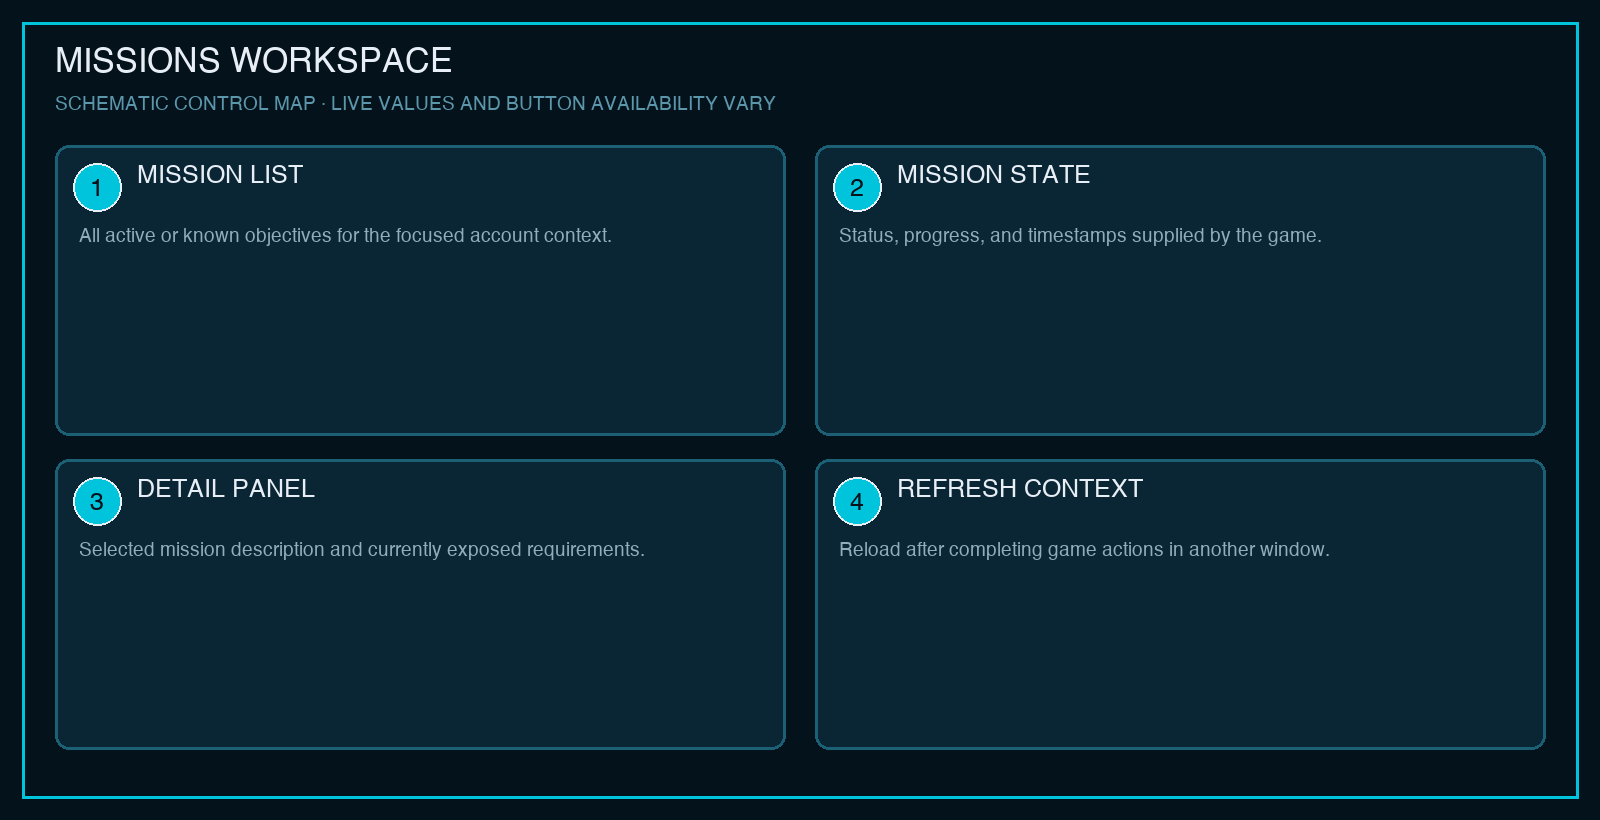
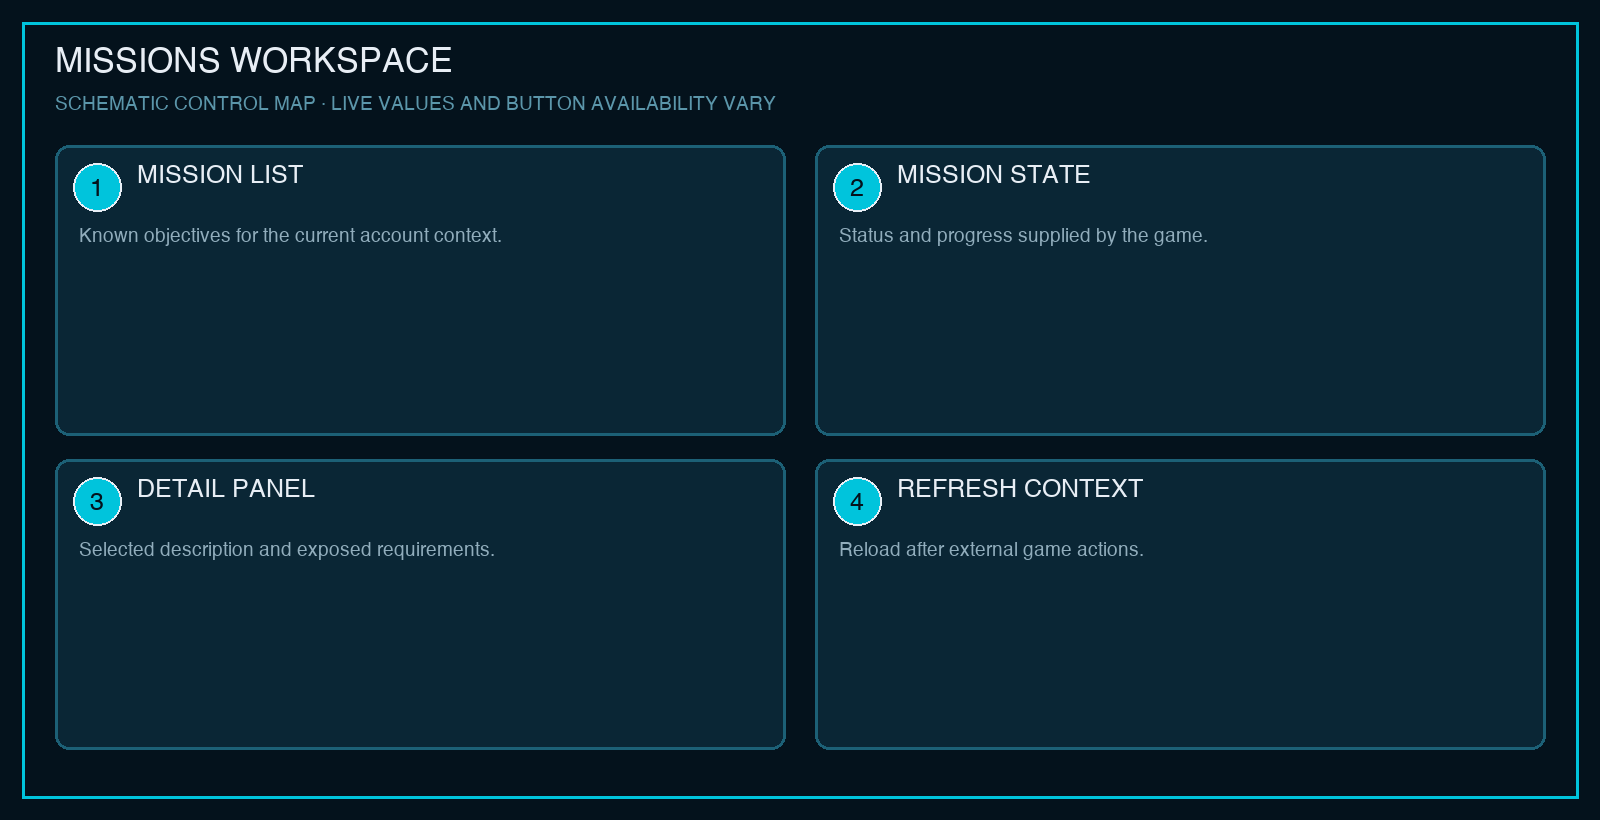
Reorganize operator manual by application tabs

diff --git a/docs/user-guide/build_manual.py b/docs/user-guide/build_manual.py
@@ -46,7 +46,8 @@ SCREENSHOTS = {
     "settings-status": Path("/Users/ziegenbagel/Documents/Screenshot 2026-08-22 at 9.14.28 PM.png"),
     "settings-roles": Path("/Users/ziegenbagel/Documents/Screenshot 2026-08-22 at 9.14.45 PM.png"),
     "settings-reserve": Path("/Users/ziegenbagel/Documents/Screenshot 2026-08-22 at 9.15.42 PM.png"),
-    "settings-transport": Path("/Users/ziegenbagel/Documents/Screenshot 2026-08-22 at 9.15.13 PM.png"),
+    "settings-tanker": Path("/Users/ziegenbagel/Documents/Screenshot 2026-08-22 at 9.15.13 PM.png"),
+    "settings-transport": Path("/Users/ziegenbagel/Documents/Screenshot 2026-08-22 at 9.20.14 PM.png"),
 }
 
 NAVY = RGBColor(5, 23, 34)
@@ -478,6 +479,24 @@ def add_warranty_redemption_form(doc):
     add_note(doc, "Actual terms", "Skunkworks is an independent community tool. The game server remains authoritative, and no joke on this page overrides safety warnings, the software license, or game rules.\nOperator signature: __________________________    Date / local orbit: __________________", "warning")
 
 
+def add_contents_page(doc, entries):
+    add_heading(doc, "Contents")
+    add_body(doc, "The manual follows the application from left to right. Page ranges include every subsection and screenshot belonging to that top-level tab.")
+    table = doc.add_table(rows=1, cols=3)
+    table.style = "Table Grid"
+    set_table_geometry(table, [1200, 6360, 1800])
+    for index, label in enumerate(("Section", "Application area", "Pages")):
+        shade(table.rows[0].cells[index], "061722")
+        font(table.rows[0].cells[index].paragraphs[0].add_run(label), bold=True, color=LIGHT)
+    for number, title, pages in entries:
+        cells = table.add_row().cells
+        font(cells[0].paragraphs[0].add_run(number), bold=True, color=BLUE)
+        font(cells[1].paragraphs[0].add_run(title), bold=True if number != "" else False)
+        cells[2].paragraphs[0].alignment = WD_ALIGN_PARAGRAPH.CENTER
+        font(cells[2].paragraphs[0].add_run(pages), bold=True, color=CYAN)
+        set_table_geometry(table, [1200, 6360, 1800])
+
+
 def build():
     has_figure = make_dashboard_figure()
     has_settings_figure = make_settings_figure()
@@ -529,7 +548,25 @@ def build():
     add_note(doc, "Edition", "Version 0.3 is the illustrated living manual for the current development build. Screens and capabilities will be revised with the application.")
     doc.add_page_break()
 
-    add_heading(doc, "1. Read This First")
+    add_contents_page(doc, [
+        ("1", "Getting Started", "3"),
+        ("2", "Mission Control", "4–5"),
+        ("3", "Fleet", "6"),
+        ("4", "Galaxy Map", "7–8"),
+        ("5", "Navigation", "9–11"),
+        ("6", "Resources", "12–13"),
+        ("7", "Missions", "14"),
+        ("8", "Production", "15"),
+        ("9", "Safety", "16"),
+        ("10", "Communications", "17"),
+        ("11", "Manual Control", "18–22"),
+        ("12", "Settings", "23–28"),
+        ("13", "Troubleshooting and Glossary", "29"),
+        ("", "Manny Warranty Redemption Form", "30"),
+    ])
+    doc.add_page_break()
+
+    add_heading(doc, "1. Getting Started")
     add_body(doc, "Skunkworks is a command-and-awareness layer for Von Neumann Game. It combines live account data, locally retained discoveries, planning, safety review, and optional automation. The focused probe determines the operational context shown across most screens.")
     add_note(doc, "Command authority", "Observe Only never sends game orders. Approval requires confirmation. Automatic can send allowlisted orders when live execution is enabled. The emergency stop overrides every mode.", "warning")
     add_heading(doc, "First launch", 2)
@@ -768,5 +805,189 @@ def build():
     print(OUTPUT)
 
 
+def build_tabbed():
+    """Build the manual in the same hierarchy as the application's tabs."""
+    doc = Document()
+    section = doc.sections[0]
+    section.top_margin = section.bottom_margin = Inches(1.0)
+    section.left_margin = section.right_margin = Inches(1.0)
+    section.header_distance = section.footer_distance = Inches(0.492)
+    normal = doc.styles["Normal"]
+    normal.font.name = "Calibri"
+    normal.font.size = Pt(11)
+    normal.paragraph_format.space_after = Pt(6)
+    normal.paragraph_format.line_spacing = 1.25
+    for name, size, before, after, color in (
+        ("Heading 1", 16, 18, 10, CYAN), ("Heading 2", 13, 14, 7, BLUE), ("Heading 3", 12, 10, 5, NAVY),
+    ):
+        style = doc.styles[name]
+        style.font.name = "Calibri"
+        style.font.size = Pt(size)
+        style.font.bold = True
+        style.font.color.rgb = color
+        style.paragraph_format.space_before = Pt(before)
+        style.paragraph_format.space_after = Pt(after)
+    header = section.header.paragraphs[0]
+    header.alignment = WD_ALIGN_PARAGRAPH.RIGHT
+    font(header.add_run("SKUNKWORKS  |  OPERATOR MANUAL  |  v0.4"), size=8, bold=True, color=MUTED)
+    footer = section.footer.paragraphs[0]
+    footer.alignment = WD_ALIGN_PARAGRAPH.CENTER
+    font(footer.add_run("Autonomous Exploration & Fleet Operations  |  Updated 2026-08-22"), size=8, color=MUTED)
+
+    p = doc.add_paragraph()
+    p.paragraph_format.space_before = Pt(80)
+    p.alignment = WD_ALIGN_PARAGRAPH.CENTER
+    font(p.add_run("S K U N K W O R K S"), size=28, bold=True, color=NAVY, name="Aptos Display")
+    p = doc.add_paragraph(); p.alignment = WD_ALIGN_PARAGRAPH.CENTER
+    font(p.add_run("OPERATOR MANUAL"), size=18, bold=True, color=CYAN, name="Aptos Display")
+    p = doc.add_paragraph(); p.alignment = WD_ALIGN_PARAGRAPH.CENTER; p.paragraph_format.space_after = Pt(28)
+    font(p.add_run("Organized by application tab and workspace"), size=12, color=MUTED)
+    add_screen_figure(doc, "mission-control", "Mission Control: live fleet, sector, resources, safety, alerts, and production at a glance.")
+    add_note(doc, "Edition", "Version 0.4 follows the application's navigation hierarchy. Each top-level tab is one section; its sub-tabs and controls remain inside that section.")
+    doc.add_page_break()
+    add_contents_page(doc, [
+        ("1", "Getting Started", "3"), ("2", "Mission Control", "4"), ("3", "Fleet", "5"),
+        ("4", "Galaxy Map", "6"), ("5", "Navigation", "7–8"), ("6", "Resources", "9–10"),
+        ("7", "Missions", "11"), ("8", "Production", "12"), ("9", "Safety", "13"),
+        ("10", "Communications", "14"), ("11", "Manual Control", "15–19"),
+        ("12", "Settings", "20–26"), ("13", "Troubleshooting and Glossary", "27"),
+        ("", "Manny Warranty Redemption Form", "28"),
+    ])
+
+    doc.add_page_break(); add_heading(doc, "1. Getting Started")
+    add_body(doc, "Skunkworks is a command-and-awareness layer for Von Neumann Game. The focused probe supplies the operational context shown throughout the application.")
+    add_note(doc, "Command authority", "Observe Only never sends orders. Approval requires confirmation. Automatic can send allowlisted orders when live execution is enabled. Emergency Stop overrides every mode.", "warning")
+    add_heading(doc, "First launch", 2)
+    add_steps(doc, [
+        "Open Settings and securely save the game API key.", "Test the connection and confirm Connected appears in the header.",
+        "Select each probe and verify its name, role, sector, fuel, and inventory.",
+        "Keep automation in Observe Only until the proposed queue matches your intent.",
+    ])
+    add_heading(doc, "Reading the header", 2)
+    add_bullets(doc, ["System Status summarizes readiness.", "Focused Probe changes the context for every probe-specific tab.", "Refresh reloads live account data.", "Stop immediately prevents automated orders."])
+
+    doc.add_page_break(); add_heading(doc, "2. Mission Control")
+    add_body(doc, "Mission Control is the at-a-glance dashboard for the focused probe. It combines fleet posture, accessible resources, the current sector, alerts, hull integrity, safety, and active production without replacing the detailed tabs.")
+    add_screen_figure(doc, "mission-control", "Figure 2-1. Mission Control dashboard and primary navigation.", width=6.35)
+    add_dashboard_legend(doc)
+
+    doc.add_page_break(); add_heading(doc, "3. Fleet")
+    add_body(doc, "Fleet contains probe identity and fleet-wide selection. Rename probes, choose the default probe when reachable, configure Manny naming for the focused probe, and select a probe card to change context.")
+    add_heading(doc, "Probe and Manny naming", 2)
+    add_bullets(doc, ["The {probe} field inserts the focused probe name.", "The {number} field inserts the selected numeric or letter sequence.", "Apply to Existing Mannys performs an immediate bulk rename for the focused probe."])
+    add_screen_figure(doc, "fleet", "Figure 3-1. Probe identity, Manny auto-naming, direct Manny rename, and fleet cards.")
+
+    doc.add_page_break(); add_heading(doc, "4. Galaxy Map")
+    add_body(doc, "Galaxy Map presents the locally known FCC network. Drag to orbit or pan, use the wheel to zoom, and use the view buttons for precise orientation. Verified lines represent neighboring-sector relationships.")
+    add_heading(doc, "Filters and sector details", 2)
+    add_bullets(doc, ["Filter by discovery state, resource, hazard, dropped container, focused-probe trail, or SCUT coverage.", "Select a node to read its coordinates, observations, objects, confidence, and last visit.", "Scan/Refresh requests current knowledge when the selected sector is reachable by the API."])
+    add_note(doc, "Local knowledge", "Detailed history persists after scans, but Skunkworks never invents information the game API did not expose.")
+    add_screen_figure(doc, "galaxy", "Figure 4-1. Rotatable FCC galaxy view, sector inspector, filters, trail, and SCUT coverage.")
+
+    doc.add_page_break(); add_heading(doc, "5. Navigation")
+    add_heading(doc, "Manual Travel", 2)
+    add_steps(doc, ["Enter a destination FCC or choose a neighboring sector from Sector Scanning.", "Select a route strategy and preview the route.", "Review distance, deuterium, cargo, and refueling warnings.", "Confirm the one-time command or save the reviewed route as an automated destination."])
+    add_screen_figure(doc, "navigation-travel", "Figure 5-1. Manual Travel destination and route review.")
+    add_heading(doc, "Sector Scanning", 2)
+    add_body(doc, "Sector Scanning lists all twelve FCC neighbors, their current knowledge level, estimated contents, and SCUT network coverage. Scan one sector or all twelve, open Details, or copy a neighbor into Manual Travel.")
+    add_screen_figure(doc, "navigation-scan", "Figure 5-2. Neighbor scanning and travel shortcuts.")
+
+    doc.add_page_break(); add_heading(doc, "6. Resources")
+    add_body(doc, "Resources groups probe storage, containers, drifting objects, and the latest observed asteroid reserves. Quantities retain their source location so users can distinguish accessible cargo from remote or detached stock.")
+    add_heading(doc, "Containers and routing", 2)
+    add_bullets(doc, ["Rename storage containers to reflect their purpose.", "Set Preferred Contents to route newly received materials.", "Reassign Craft Reservations before moving a container whose capacity is reserved for active output.", "Unavailable detached-container detail remains labeled unknown."])
+    add_screen_figure(doc, "manual-container", "Figure 6-1. Container identity, content rules, and reservation reassignment.")
+    add_screen_figure(doc, "manual-cargo", "Figure 6-2. Resource movement and source/destination selection referenced by inventory operations.")
+
+    doc.add_page_break(); add_heading(doc, "7. Missions")
+    add_body(doc, "Missions lists live game objectives and progress. Select an entry for the description, exposed requirements, state, and timestamps supplied by the game. Refresh after completing mission work elsewhere.")
+    add_workspace_diagram(doc, "missions", "Missions workspace", [("Mission list", "Known objectives for the current account context."), ("Mission state", "Status and progress supplied by the game."), ("Detail panel", "Selected description and exposed requirements."), ("Refresh context", "Reload after external game actions.")])
+
+    doc.add_page_break(); add_heading(doc, "8. Production")
+    add_body(doc, "Production displays every Manny and printer, including idle workers. Active cards show the task, target, progress, local completion time, countdown, delivery behavior, and the reason automation dispatched the order.")
+    add_bullets(doc, ["Sort Mannys by name, status, or remaining time.", "Idle Ready means the Manny can receive a valid order.", "Recall cancels the current task subject to game rules.", "Mining cards show their target object, resource, amount, and delivery commitment."])
+    add_screen_figure(doc, "production", "Figure 8-1. Live Manny production, crafting, mining, countdowns, and recall controls.")
+
+    doc.add_page_break(); add_heading(doc, "9. Safety")
+    add_body(doc, "Safety centralizes operational findings. Readiness distinguishes advisory notices from warning and critical conditions; a busy fleet can remain healthy even when no Manny is currently available.")
+    add_bullets(doc, ["Travel risk considers distance, fuel, return options, and destination refueling.", "Cargo warnings identify detachment risk at five or more containers.", "Resource depletion warns before local mining sources are exhausted.", "Emergency Stop prevents automation until explicitly cleared."])
+    add_note(doc, "Evidence", "Some hazards are observed game behavior rather than formal API guarantees. The application identifies uncertainty and keeps configurable thresholds where appropriate.", "warning")
+
+    doc.add_page_break(); add_heading(doc, "10. Communications")
+    add_heading(doc, "Messaging", 2)
+    add_body(doc, "Messaging contains account communications and unread state exposed by the game API. Messages remain separate from operational alerts and safety findings.")
+    add_heading(doc, "Logbook", 2)
+    add_body(doc, "Logbook pages belong to the focused probe. Create and edit operator notes or enable one daily role report plus major-discovery reports. Routine refreshes are not logged as events.")
+    add_screen_figure(doc, "logbook", "Figure 10-1. Messaging/Logbook sub-tabs, page list, editor, and automatic daily reports.")
+
+    doc.add_page_break(); add_heading(doc, "11. Manual Control")
+    add_body(doc, "Manual Control contains one-time operator orders. Every command remains subject to live validation, confirmation, reservations, and Manny availability.")
+    add_heading(doc, "Production and Assembly", 2)
+    add_body(doc, "Queue one exposed recipe without creating a persistent target, or assemble a probe from two distinct empty containers, an assembly Manny, and the model's required crafted components. The recipe reference expands ordinary crafts into total raw inputs.")
+    add_screen_figure(doc, "manual-build", "Figure 11-1. Production and Assembly sub-tab.")
+    add_heading(doc, "Manny Field Operations", 2)
+    add_body(doc, "Repair or upgrade the focused probe, issue a mining order, transfer deuterium, or reassign a Manny to another same-sector probe. Transferring a busy Manny cancels its task.")
+    add_screen_figure(doc, "manual-field", "Figure 11-2. Manny Field Operations sub-tab.")
+    add_heading(doc, "Cargo and Transfers", 2)
+    add_body(doc, "Move stock between containers, jettison resources or items, deploy and recover containers, and manage same-sector handoffs. Confirm the exact Manny, source, destination, and amount before submission.")
+    add_screen_figure(doc, "manual-cargo", "Figure 11-3. Cargo and Transfers sub-tab.")
+    add_screen_figure(doc, "manual-container", "Figure 11-4. Container deployment, recovery, and routing controls.")
+    add_heading(doc, "Infrastructure and Networks", 2)
+    add_body(doc, "Activate SCUT relays, install transit beacons, inspect and bookmark objects, refuel at a visible station, recover waiting cargo, and share known blueprints across an active SCUT network.")
+    add_screen_figure(doc, "manual-network", "Figure 11-5. Infrastructure and Networks sub-tab.")
+    add_heading(doc, "Motorized Asteroid Operations", 2)
+    add_body(doc, "Propulsion installation, refueling, launch, and Anatiform sculpting are high-impact commands. Installation consumes listed components immediately, and launch cannot be cancelled through the current API.")
+    add_screen_figure(doc, "manual-asteroid", "Figure 11-6. Motorized asteroid operations and capability locks.")
+
+    doc.add_page_break(); add_heading(doc, "12. Settings")
+    add_heading(doc, "General Automation", 2)
+    add_heading(doc, "Account, Audio, and Execution Policy", 3)
+    add_body(doc, "Store or test the API credential, configure audio, select Observe Only, Approval, or Automatic, enable live orders, set the command allowlist, and limit orders per one-minute cycle.")
+    add_screen_figure(doc, "settings-policy", "Figure 12-1. General Automation: credentials, audio, execution policy, allowlist, and queue.")
+    add_heading(doc, "Targets and Priorities", 3)
+    add_body(doc, "Targets express desired quantities. Priority 1 is highest. Higher-priority goals claim available inventory first; equal-priority goals use stable target order and are reconsidered after each planning cycle.")
+    add_screen_figure(doc, "settings-targets", "Figure 12-2. Fleet assembly and production targets with independent priorities.")
+    add_heading(doc, "Resource and Safety Floors", 3)
+    add_body(doc, "Configure mining-order size, safe travel segment length, material reserves, fuel floor, minimum free capacity, and repair thresholds. These values belong to the focused probe.")
+    add_screen_figure(doc, "settings-floors", "Figure 12-3. Resource and safety floors.")
+    add_heading(doc, "Live Target Status and Planner", 3)
+    add_body(doc, "Live Target Status compares stored and active work with every configured goal. Complete Planner Status lists all goals and explains missing resources, unavailable fabricators, role requirements, fuel shortages, and idle-Manny shortages.")
+    add_screen_figure(doc, "settings-status", "Figure 12-4. Live Target Status and refresh diagnostics.")
+    add_screen_figure(doc, "settings-planner", "Figure 12-5. Planner requirements, allocations, uncovered resources, and blockers.")
+    add_heading(doc, "Probe Role Settings", 2)
+    add_body(doc, "Probe roles are configured together in this sub-tab. The default probe assigns fleet-wide roles; selecting a role-bearing probe then exposes that role's own controls.")
+    add_heading(doc, "Role Assignment", 3)
+    add_screen_figure(doc, "settings-roles", "Figure 12-6. Fleet-wide probe role assignment from the default probe.")
+    add_heading(doc, "Deuterium Reserve", 3)
+    add_body(doc, "A reserve tanker monitors one selected consumer or downstream tanker and retains the protected source reserve before forwarding deuterium.")
+    add_screen_figure(doc, "settings-reserve", "Figure 12-7. Deuterium Reserve role and refill-chain settings.")
+    add_heading(doc, "Transport and Deuterium Tanker", 3)
+    add_body(doc, "Both recurring logistics roles define loading, unloading, return, repetition, cargo thresholds, contingency reserve, and an optional verified refuel stop. Tanker mode uses an absolute ECE load target; general transport uses cargo percentages.")
+    add_screen_figure(doc, "settings-transport", "Figure 12-8. Transport role round-trip settings.")
+    add_screen_figure(doc, "settings-tanker", "Figure 12-9. Deuterium Tanker round-trip settings.")
+
+    doc.add_page_break(); add_heading(doc, "13. Troubleshooting and Glossary")
+    table = doc.add_table(rows=1, cols=3); table.style = "Table Grid"; set_table_geometry(table, [2200, 3100, 4060])
+    for i, label in enumerate(("Symptom", "Check", "Action")):
+        shade(table.rows[0].cells[i], "E8EEF5"); font(table.rows[0].cells[i].paragraphs[0].add_run(label), bold=True, color=BLUE)
+    for case in (
+        ("Wrong sector after probe selection", "Focused Probe and FCC after refresh", "Wait for the authoritative snapshot before acting."),
+        ("No automation command", "Planner blockers, inventory, allowlist, safety", "Read Complete Planner Status and resolve the named prerequisite."),
+        ("Idle Manny receives no work", "Queue, raw resources, fabricator, reservations", "Confirm a command is unblocked and the required worker type is available."),
+        ("Refresh is slow", "Refresh Diagnostics slowest stages", "Capture diagnostic logs; galaxy refreshes are expected to be the heaviest."),
+        ("Map lacks detail", "Knowledge level and last scan", "Scan the sector or its neighbors."),
+    ):
+        cells = table.add_row().cells
+        for cell, text in zip(cells, case): font(cell.paragraphs[0].add_run(text), size=9.2)
+        set_table_geometry(table, [2200, 3100, 4060])
+    add_heading(doc, "Glossary", 2)
+    for term, definition in (("ECE", "Resource and capacity quantity unit."), ("FCC", "Three-dimensional sector coordinates."), ("Manny", "Autonomous construction and mining unit."), ("SCUT relay", "Communication relay in a discovered network."), ("Desired state", "The quantities and priorities automation maintains."), ("Focused probe", "The probe supplying the current workspace context.")):
+        add_body(doc, f"{term}. {definition}", bold_lead=f"{term}. ")
+    add_warranty_redemption_form(doc)
+    OUTPUT.parent.mkdir(parents=True, exist_ok=True)
+    doc.save(OUTPUT)
+    print(OUTPUT)
+
+
 if __name__ == "__main__":
-    build()
+    build_tabbed()

diff --git a/docs/user-guide/CHANGELOG.md b/docs/user-guide/CHANGELOG.md
@@ -1,5 +1,15 @@
 # Operator Manual Revision History
 
+## 0.4 — 2026-08-22
+
+- Reorganized the manual to mirror the application's top-level tabs, with each
+  tab contained in one numbered section and its sub-tabs presented as nested
+  subsections.
+- Grouped role assignment, Deuterium Reserve, Transport, and Deuterium Tanker
+  guidance under Settings → Probe Role Settings.
+- Added a page-two contents table with verified page ranges for every major
+  application area and the Manny warranty insert.
+
 ## 0.3 — 2026-08-22
 
 - Rebuilt the manual around current screenshots of Mission Control, Fleet,
